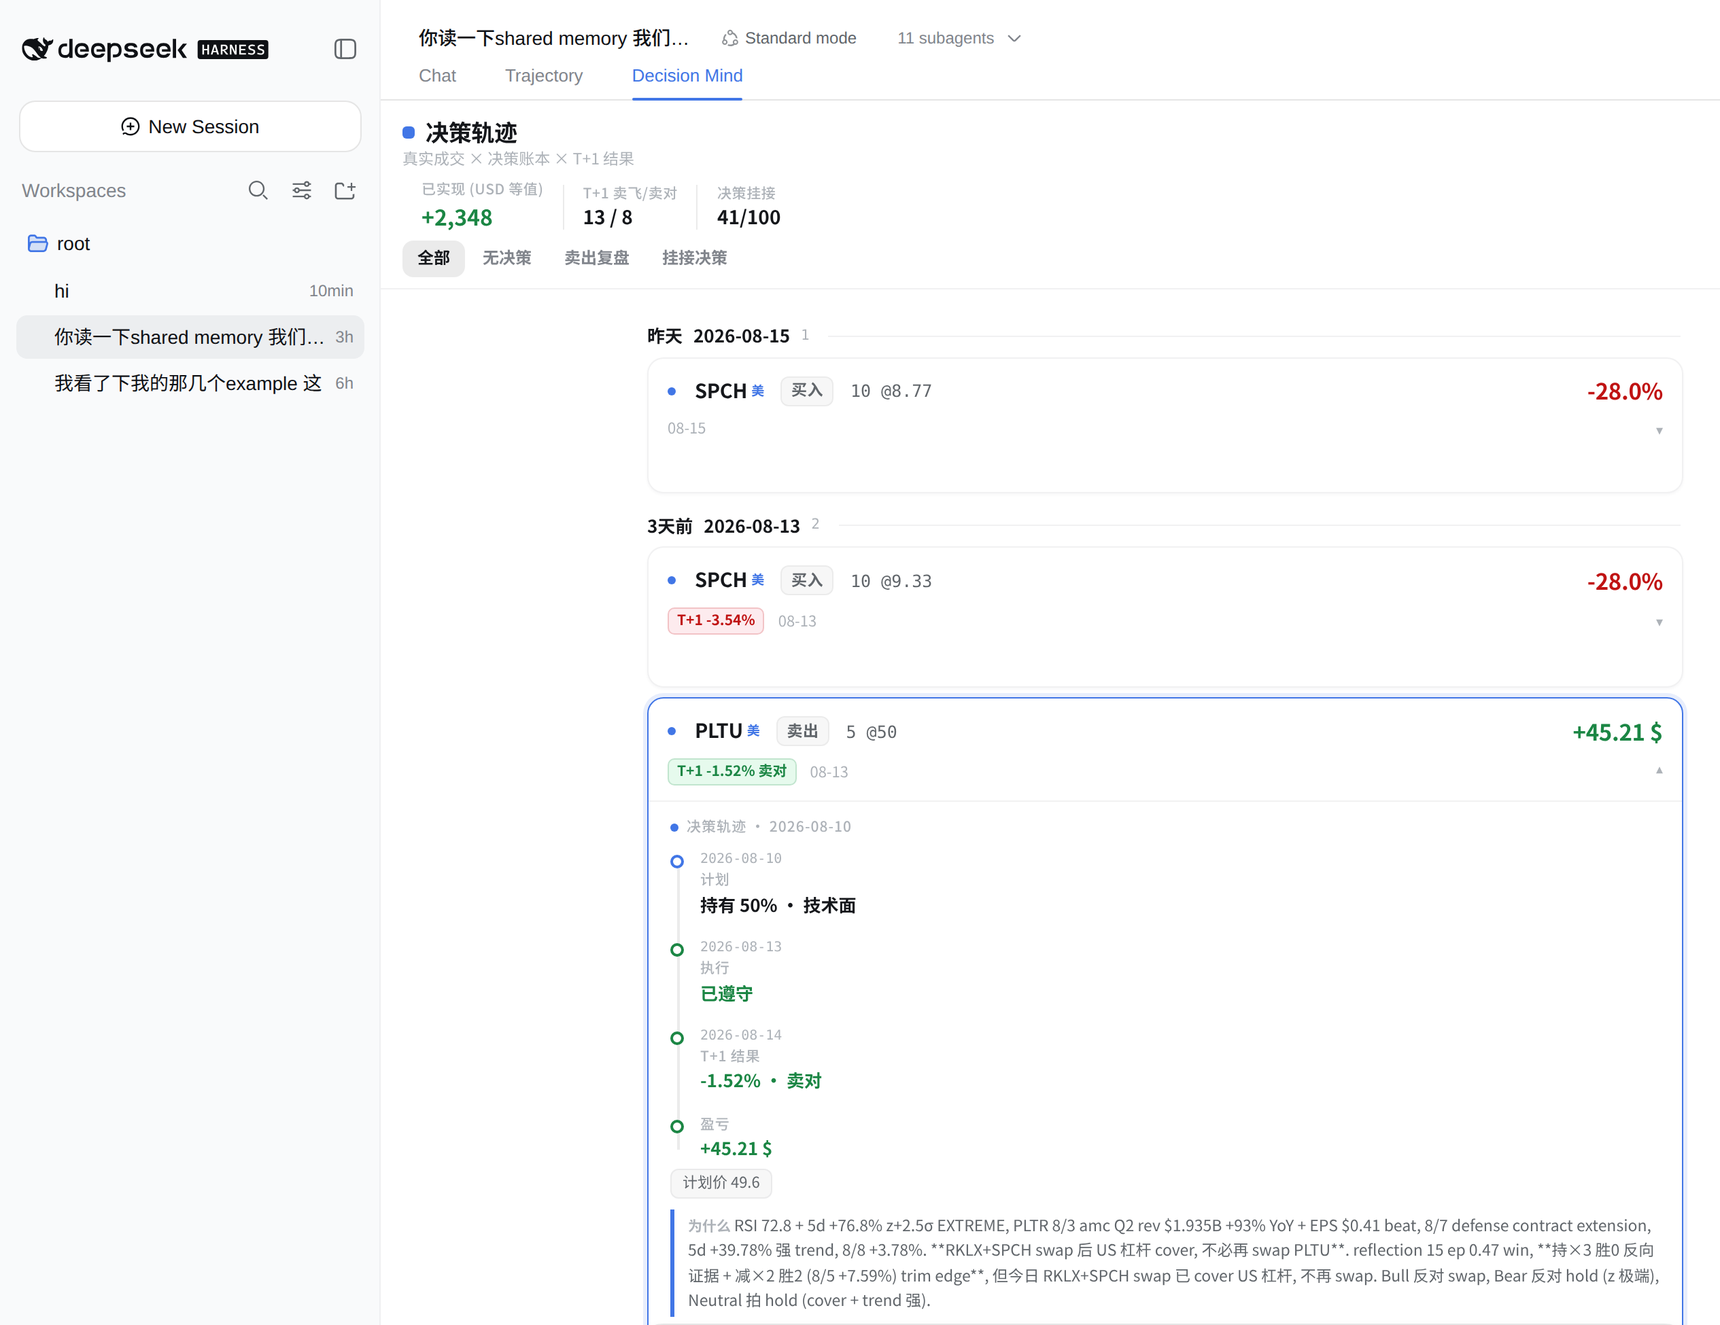
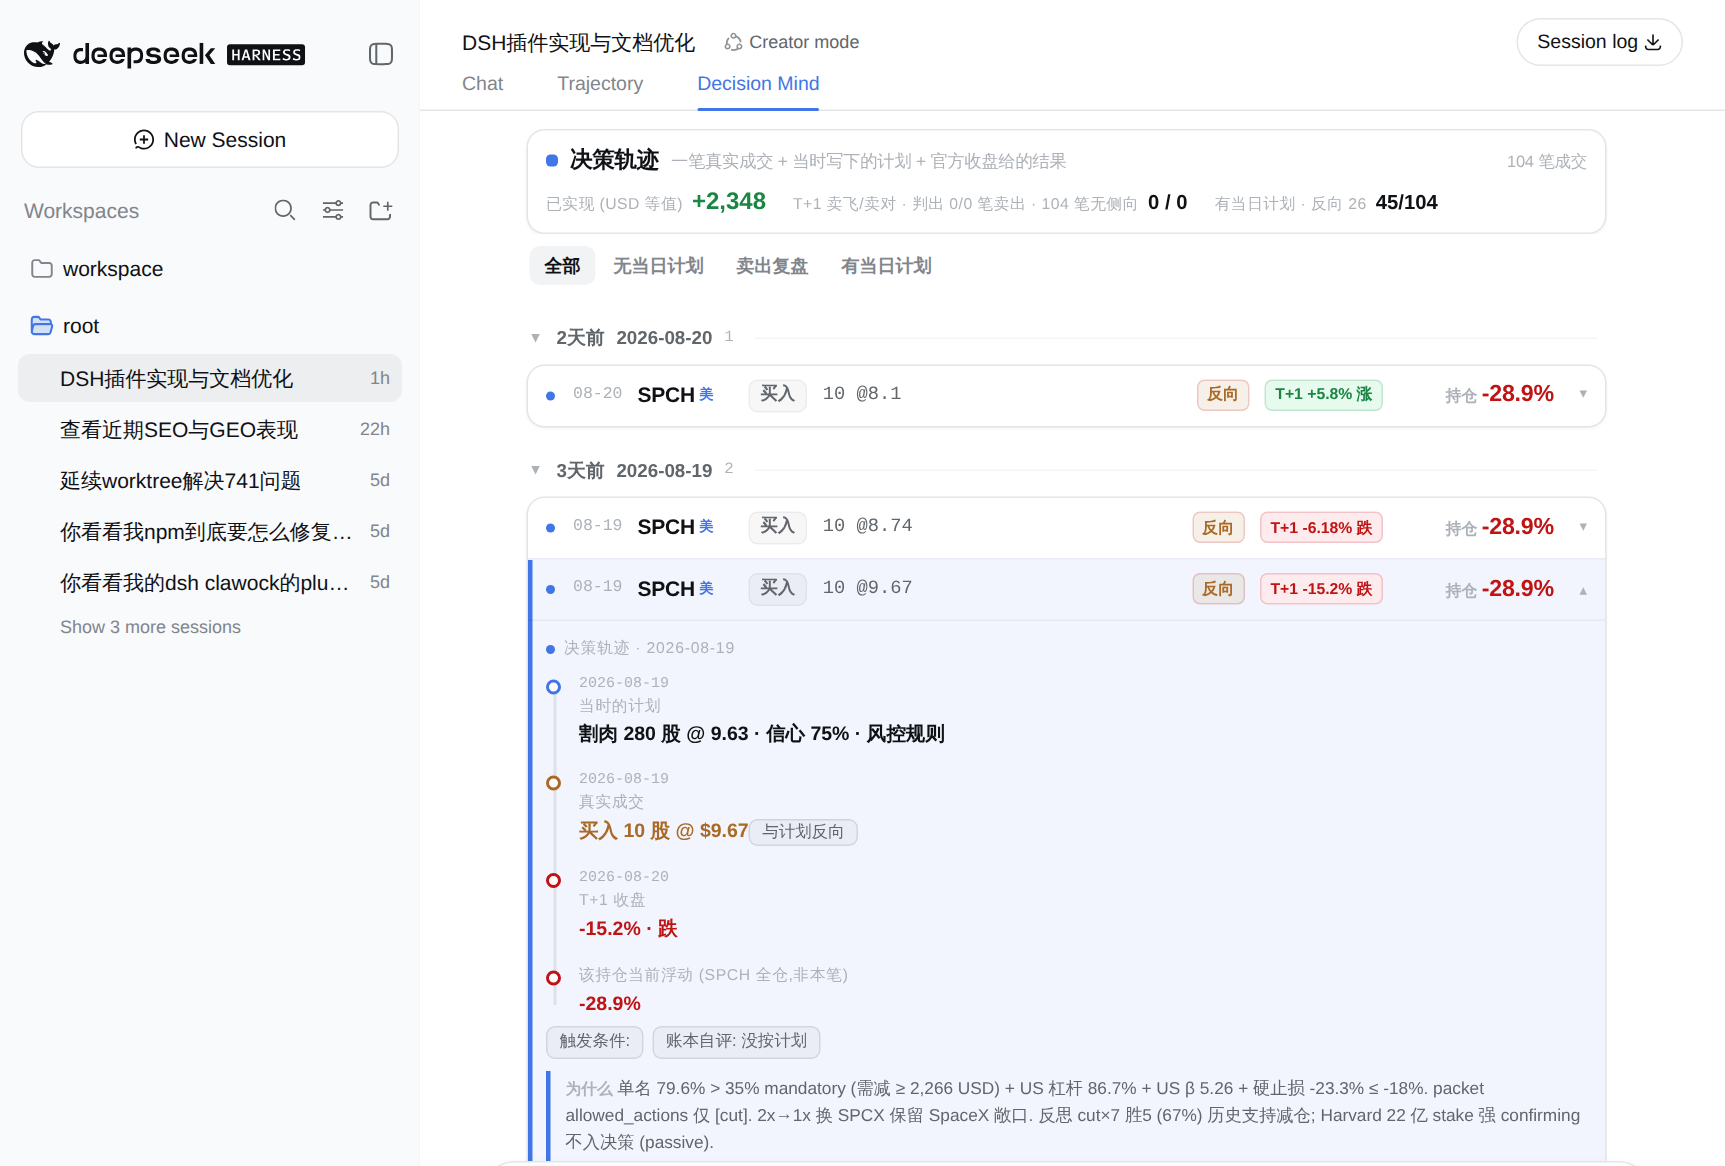
docs: DSH 插件真实运行截图进 README (手动重截脚本 + sidecar 闸门) (#828)
## 干什么

把 DSH 插件（Decision Mind tab）在真实 harness 里运行的截图正式收进 README：

- `site/assets/dsh-decision-mind.png` — 2026-08-22 在跑着 DSH + desk 的本机重截
  （上一张 2026-08-16 的已过时三个布局 PR，#825/#826/#827 之后旧图会宣传
  一个不再存在的 UI）
- `site/tools/shoot_dsh_plugin.js` — 重截脚本，下一次刷新一条命令：
  `node site/tools/shoot_dsh_plugin.js`；`screenshot-refresh.yml` 不产这张图
  （CI runner 没有 DSH 也没有 desk，"在 DSH 里真实运行"正是这张图的证据点）
- `src/clawock/publish/artifacts.py` — sidecar 闸门把这张图也纳入
  `validate-sidecar screenshots`（CI 上仍会校验文件存在且可解码）

README.md / README.zh.md / clawock-dsh 包 README 的图引用已在 3b00281b 落地。

## 验证

- 本地 `clawock validate-sidecar screenshots` 通过：
  `dsh-decision-mind.png: 253995 bytes, 1725x1166`
- 尺寸/字节均高于闸门下界（1200x600 / 100KB）

diff --git a/site/tools/shoot_dsh_plugin.js b/site/tools/shoot_dsh_plugin.js
@@ -1,0 +1,107 @@
+#!/usr/bin/env node
+/**
+ * shoot_dsh_plugin.js — capture the Decision Mind tab running inside a live
+ * DeepSeek Harness, for README.md / README.zh.md.
+ *
+ * Why this one is not in `screenshot-refresh.yml` like the dashboard shots:
+ * the picture's whole claim is "this plugin is running inside DSH, on a real
+ * desk" — the harness chrome (workspace sidebar, Chat / Trajectory / Decision
+ * Mind tab strip) is the evidence. A CI runner has no DSH and no desk, so it
+ * can only be shot from a host that runs both. That makes it a *manual*
+ * refresh, and this file exists so the next refresh is one command instead of
+ * a re-derived Playwright script:
+ *
+ *   ops/host/install_dsh_plugin.sh --restart      # live plugin = the checkout
+ *   node site/tools/shoot_dsh_plugin.js           # → site/assets/dsh-decision-mind.png
+ *   clawock validate-sidecar screenshots          # same gate CI runs
+ *
+ * Re-shoot it whenever the tab's layout changes; a stale shot is worse than no
+ * shot, because it advertises a UI the package no longer ships (the 2026-08-16
+ * capture outlived three layout PRs before anyone noticed).
+ *
+ * Env: DSH_URL (default http://127.0.0.1:3081/ — the loopback origin, which
+ *      skips Tailscale/nginx/HTTPS entirely), SESSION (substring of the
+ *      session title to open), ROW (which fill to unfold, default the third),
+ *      OUT (output path), CHROME_EXE, WIDTH/HEIGHT/DSF.
+ */
+const { chromium } = require('playwright');
+const fs = require('fs');
+const path = require('path');
+
+const ROOT = path.resolve(__dirname, '../..');
+const URL = process.env.DSH_URL || 'http://127.0.0.1:3081/';
+const SESSION = process.env.SESSION || '';
+const OUT = process.env.OUT || path.join(ROOT, 'site/assets/dsh-decision-mind.png');
+// 1150x900 at 1.5x lands on ~1725x1320 — the width README renders at 860, with
+// enough pixels left for the text to stay crisp on a retina screen.
+const WIDTH = Number(process.env.WIDTH || 1150);
+const HEIGHT = Number(process.env.HEIGHT || 900);
+const DSF = Number(process.env.DSF || 1.5);
+// Playwright's bundled Chromium; this host has no system Chrome since the snap
+// was removed (2026-08-17).
+const CHROME_EXE = process.env.CHROME_EXE
+  || '/root/.cache/ms-playwright/chromium-1223/chrome-linux64/chrome';
+
+async function main() {
+  const browser = await chromium.launch({
+    executablePath: fs.existsSync(CHROME_EXE) ? CHROME_EXE : undefined,
+    args: ['--no-sandbox'],
+  });
+  const page = await browser.newPage({
+    viewport: { width: WIDTH, height: HEIGHT },
+    deviceScaleFactor: DSF,
+  });
+  // `networkidle` never fires here: /plugins/events is a heartbeat-free SSE
+  // stream, so the network is never idle. Wait on the DOM instead.
+  await page.goto(URL, { waitUntil: 'domcontentloaded', timeout: 60000 });
+  await page.waitForTimeout(7000);
+
+  // Open a session: the landing page is a workspace tree, and the session
+  // title is the one handle that survived the 0.1.1-rc.2 sidebar rewrite.
+  const session = SESSION
+    ? page.getByText(SESSION, { exact: false }).first()
+    : page.locator('aside a, aside li, [class*="session"]').first();
+  await session.click({ timeout: 30000 });
+  await page.waitForTimeout(6000);
+
+  await page.getByText('Decision Mind', { exact: false }).first().click({ timeout: 30000 });
+  await page.waitForTimeout(4000);
+
+  // Reveal a couple more day groups, then open the newest fill so the capture
+  // shows both halves of the view: the folded ledger rows and one unfolded
+  // plan → fill → T+1 → P&L timeline.
+  const more = page.getByText('显示更早的', { exact: false }).first();
+  if (await more.count()) {
+    await more.click().catch(() => {});
+    await page.waitForTimeout(1200);
+  }
+  // [data-cell=trace] is a deliberate contract (class names are CSS-module
+  // hashes and would break on every build).
+  const rows = page.locator('[data-cell=trace]');
+  const count = await rows.count();
+  if (!count) throw new Error('no [data-cell=trace] rows — is CLAWOCK_WORKSPACE pointing at a desk?');
+  // Not the first row: opening one further down keeps a few folded ledger rows
+  // above the unfolded one, so the shot shows both states at once.
+  await rows.nth(Math.min(Number(process.env.ROW || 2), count - 1)).click();
+  await page.waitForTimeout(1200);
+  // Park the pointer in the corner: a hovered row would ship a hover tint that
+  // reads as a selected state nobody selected.
+  await page.mouse.move(WIDTH - 2, HEIGHT - 2);
+  await page.waitForTimeout(400);
+
+  // Clip above the floating composer — it is the app's, not the plugin's, and
+  // it covers the bottom rows.
+  const composerTop = await page.evaluate(() => {
+    const seats = [...document.querySelectorAll('textarea')];
+    const box = seats.length ? seats[seats.length - 1].closest('div')?.getBoundingClientRect() : null;
+    return box ? Math.round(box.top) : null;
+  });
+  const height = Math.max(400, Math.min(HEIGHT, (composerTop ?? HEIGHT) - 8));
+  fs.mkdirSync(path.dirname(OUT), { recursive: true });
+  await page.screenshot({ path: OUT, clip: { x: 0, y: 0, width: WIDTH, height } });
+  const bytes = fs.statSync(OUT).size;
+  console.log(`wrote ${path.relative(ROOT, OUT)} — ${WIDTH}x${height} @${DSF}x, ${bytes} bytes`);
+  await browser.close();
+}
+
+main().catch((error) => { console.error(error); process.exit(1); });

diff --git a/src/clawock/publish/artifacts.py b/src/clawock/publish/artifacts.py
@@ -558,6 +558,12 @@ def validate_weekly_review(
 DEFAULT_SCREENSHOTS = (
     ('site/assets/shadow-backtest.png', 20_000, 400, 200),
     ('site/assets/social-card.png', 150_000, 1_000, 500),
+    # Shot by hand from a host that runs both DSH and the desk
+    # (`site/tools/shoot_dsh_plugin.js`) — a CI runner has neither, so this one
+    # is not produced by screenshot-refresh.yml. It is validated here anyway:
+    # it ships in three READMEs, and the cheapest thing this gate can hold is
+    # that the committed file still exists and still decodes.
+    ('site/assets/dsh-decision-mind.png', 100_000, 1_200, 600),
 )
 
 
